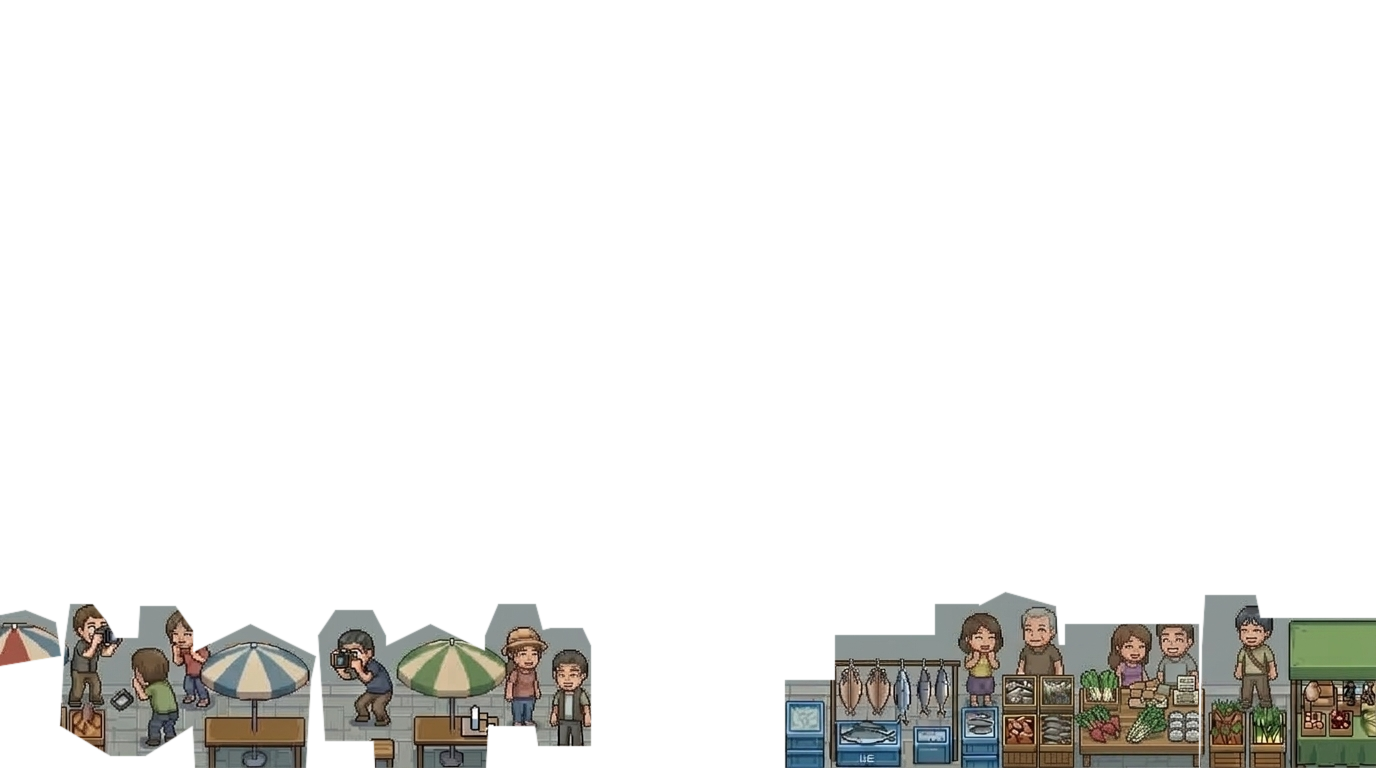
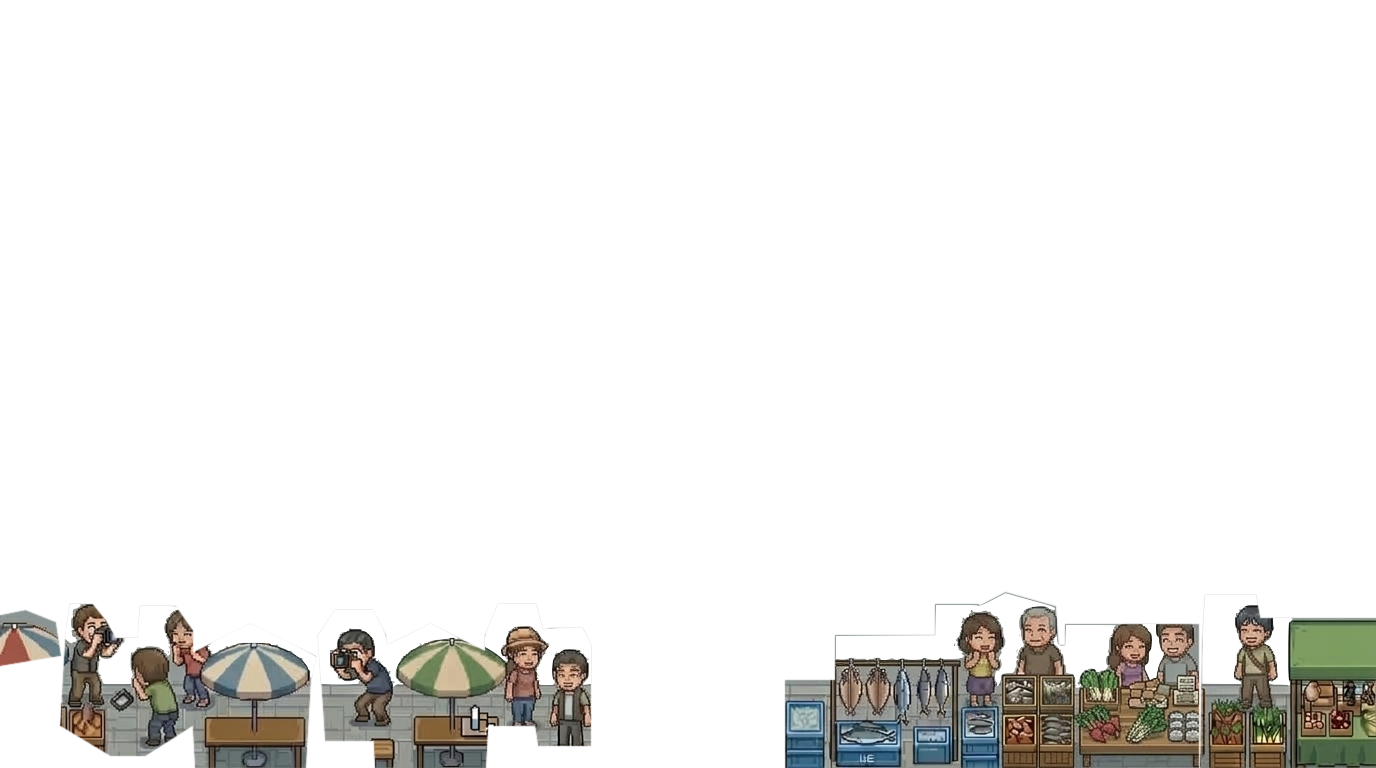
feat: ユーザー指定の通行可能エリアを1ピクセル精度で完全反映（ピクセルマスク当たり判定システム導入）

diff --git a/js/game.js b/js/game.js
@@ -39,8 +39,10 @@ class AsaichiGame {
       mikoshi: new Image(),
       cat: new Image(),
       yankees: new Image(),
-      items: new Image()
+      items: new Image(),
+      walkableMask: new Image()
     };
+    this.walkableBitmap = null; // 1376x768 ユーザー手描き通行可能ビットマップ (1: 通行可能, 0: 立入禁止)
     this.tandemBikeCanvas = null; // 黒背景を透明化したCanvasキャッシュ
     this.tandemRushes = []; // 走行中のタンデムバイクリスト
     this.mikoshiRushes = []; // 走行中の勝浦神輿軍団リスト
@@ -167,13 +169,15 @@ class AsaichiGame {
       { img: this.images.mikoshi,       src: `assets/katsuura_mikoshi.png?v=${cacheKey}` },
       { img: this.images.cat,           src: `assets/cat_sprites.png?v=${cacheKey}` },
       { img: this.images.yankees,       src: `assets/yankee_sprites.png?v=${cacheKey}` },
-      { img: this.images.items,         src: `assets/items.png?v=${cacheKey}` }
+      { img: this.images.items,         src: `assets/items.png?v=${cacheKey}` },
+      { img: this.images.walkableMask,   src: `assets/walkable_mask.png?v=${cacheKey}` }
     ];
     const total = list.length;
     const check = () => {
       loaded++;
       if (loaded >= total) {
         this.assetsLoaded = true;
+        this.prepareWalkableMask();
         this.prepareTransparentTandemBike();
       }
     };
@@ -189,6 +193,48 @@ class AsaichiGame {
         check();
       }
     });
+  }
+
+  // ユーザー手描き通行可能マスク画像（assets/walkable_mask.png）をUint8Arrayビットマップに展開
+  prepareWalkableMask() {
+    try {
+      const img = this.images.walkableMask;
+      if (!img || !img.naturalWidth) {
+        console.warn('[WalkableMask] Image not loaded yet');
+        return;
+      }
+      const offCanvas = document.createElement('canvas');
+      offCanvas.width = this.worldW;
+      offCanvas.height = this.worldH;
+      const offCtx = offCanvas.getContext('2d');
+      offCtx.drawImage(img, 0, 0, this.worldW, this.worldH);
+      const imgData = offCtx.getImageData(0, 0, this.worldW, this.worldH);
+      const data = imgData.data;
+
+      this.walkableBitmap = new Uint8Array(this.worldW * this.worldH);
+      for (let i = 0; i < this.worldW * this.worldH; i++) {
+        // 白(255)が通行可能、黒(0)が立入禁止
+        this.walkableBitmap[i] = data[i * 4] > 128 ? 1 : 0;
+      }
+      console.log('✨ [WalkableMask] ユーザー様指定通行可能マスク（1376x768）展開完了！ピクセルパーフェクト当たり判定稼働');
+    } catch (e) {
+      console.warn('Walkable mask loading failed, fallback to box colliders', e);
+    }
+  }
+
+  // 指定座標が通行可能か判定（1ピクセル精度）
+  isPixelWalkable(x, y) {
+    const ix = Math.floor(x);
+    const iy = Math.floor(y);
+    // 外周境界壁（端っこへのめり込み・画面外落下防止：外周10pxは通行不可）
+    if (ix < 10 || ix >= this.worldW - 10 || iy < 10 || iy >= this.worldH - 10) {
+      return false;
+    }
+    if (this.walkableBitmap) {
+      return this.walkableBitmap[iy * this.worldW + ix] === 1;
+    }
+    // ビットマップ展開前のフォールバック（四角形コライダー）
+    return !this.isInsideForbiddenArea(x, y);
   }
 
   // タンデムクロスバイクの黒背景を自動透過してキャッシュ
@@ -221,7 +267,7 @@ class AsaichiGame {
     }
   }
 
-  // コライダー設定（鳥居左茂み完全立入禁止＆白テント屋台正確判定＆手前回り込み構造）
+  // コライダー設定（ビットマップ未読込時のフォールバック用）
   initColliders() {
     this.colliders = [
       // 1. 外周境界壁（画面外へのすり抜け防止）
@@ -234,28 +280,36 @@ class AsaichiGame {
       { x: 0, y: 0, w: 400, h: 340 },     // 北町屋・左側屋根
       { x: 860, y: 0, w: 516, h: 340 },   // 北町屋・右側屋根
 
-      // 3. 遠見岬神社（鳥居・雛壇・茂み・玉垣・石灯籠・柱すべて完全立入禁止！）
-      { x: 400, y: 0, w: 460, h: 460 },   // 神社境内・石段・鳥居・左右の森すべて完全侵入不可！
+      // 3. 遠見岬神社（鳥居・雛壇・茂み）
+      { x: 400, y: 0, w: 460, h: 460 },   // 神社境内・石段・鳥居・左右の森
 
       // 4. 左側中段（テラス席、SPICE COFFEE自転車ワゴン、白テント屋台、A型看板）
-      { x: 0, y: 390, w: 240, h: 65 },    // テラス傘席（オレンジ＆青白パラソル列）
-      { x: 60, y: 490, w: 180, h: 60 },   // テラス客席（カメラ女子＆迷彩服男性）※傘との間 y: 455〜490 は小道として通れる！
-      { x: 375, y: 340, w: 185, h: 140 }, // 白テント屋台本体（おばちゃん・商品台・緑黒板）※左側SPICE看板前は広々通れる！
-      { x: 235, y: 490, w: 260, h: 75 },  // 自転車ワゴン本体〜A型黒板看板 ※真下の石畳は通れる！
+      { x: 0, y: 390, w: 240, h: 65 },    // テラス傘席
+      { x: 60, y: 490, w: 180, h: 60 },   // テラス客席
+      { x: 375, y: 340, w: 185, h: 140 }, // 白テント屋台本体
+      { x: 235, y: 490, w: 260, h: 75 },  // 自転車ワゴン本体〜A型黒板看板
 
       // 5. 右側中段（魚トロ箱ICE、青白干物棚、紺色テント八百屋、野菜木箱棚）
-      // ※上部の北町屋軒下 y: 340〜430 は、魚屋の裏を通り抜けられる奥の小道！
       { x: 870, y: 430, w: 506, h: 140 },
 
-      // 6. 南側（手前オブジェクト全体：客席・テーブル・パラソル・干物台・屋台）
-      // ※中央石畳通路（x: 440〜645）のみ画面最下端（y: 755まで）完全に通過可能！
-      { x: 0, y: 580, w: 440, h: 188 },   // 南左手前客席全体（テーブル・客・パラソル）
-      { x: 645, y: 580, w: 731, h: 188 }  // 南右手前屋台全体（干物台・魚箱・観客）
+      // 6. 南側（手前オブジェクト全体）
+      { x: 0, y: 580, w: 440, h: 188 },   // 南左手前客席全体
+      { x: 645, y: 580, w: 731, h: 188 }  // 南右手前屋台全体
     ];
   }
 
-  // 立入禁止エリア内外判定ヘルパー（マージン指定可能）
+  // 立入禁止エリア内外判定ヘルパー（敵・アイテムスポーン判定用）
   isInsideForbiddenArea(x, y, margin = 0) {
+    if (this.walkableBitmap) {
+      if (!this.isPixelWalkable(x, y)) return true;
+      if (margin > 0) {
+        if (!this.isPixelWalkable(x - margin, y) || !this.isPixelWalkable(x + margin, y) ||
+            !this.isPixelWalkable(x, y - margin) || !this.isPixelWalkable(x, y + margin)) {
+          return true;
+        }
+      }
+      return false;
+    }
     for (let c of this.colliders) {
       if (x >= c.x - margin && x <= c.x + c.w + margin &&
           y >= c.y - margin && y <= c.y + c.h + margin) {
@@ -265,8 +319,13 @@ class AsaichiGame {
     return false;
   }
 
-  // 足元接地衝突判定
+  // 足元接地衝突判定（ピクセルマスク最優先・1ピクセル精度で狭い小道もスイスイ通過！）
   checkFootCollision(fx, fy) {
+    if (this.walkableBitmap) {
+      // 足元の中心点が通行不可（黒）なら衝突！
+      // ユーザー様が塗られた通行可能エリア（白）の境界線ギリギリまでスムーズに歩ける
+      return !this.isPixelWalkable(fx, fy);
+    }
     const boxW = 16;
     const boxH = 8;
     for (let c of this.colliders) {
@@ -287,17 +346,15 @@ class AsaichiGame {
         const angle = (i / 16) * Math.PI * 2;
         const testX = entity.x + Math.cos(angle) * r;
         const testY = entity.y + Math.sin(angle) * r;
-        if (testX >= 25 && testX <= this.worldW - 25 && testY >= 25 && testY <= this.worldH - 25) {
-          if (!this.checkFootCollision(testX, testY)) {
-            entity.x = testX;
-            entity.y = testY;
-            return;
-          }
+        if (this.isPixelWalkable(testX, testY) && !this.checkFootCollision(testX, testY)) {
+          entity.x = testX;
+          entity.y = testY;
+          return;
         }
       }
     }
     entity.x = 660;
-    entity.y = 460;
+    entity.y = 530;
   }
 
   // キーボード・UIイベント

diff --git a/index.html b/index.html
@@ -196,6 +196,6 @@
   <!-- 分割スクリプト群（サウンド、定数、ゲーム本体） -->
   <script src="js/sound.js?v=20260928_user_exact_colliders"></script>
   <script src="js/constants.js?v=20260928_user_exact_colliders"></script>
-  <script src="js/game.js?v=20260928_user_exact_colliders"></script>
+  <script src="js/game.js?v=20260928_pixel_perfect_mask"></script>
 </body>
 </html>
